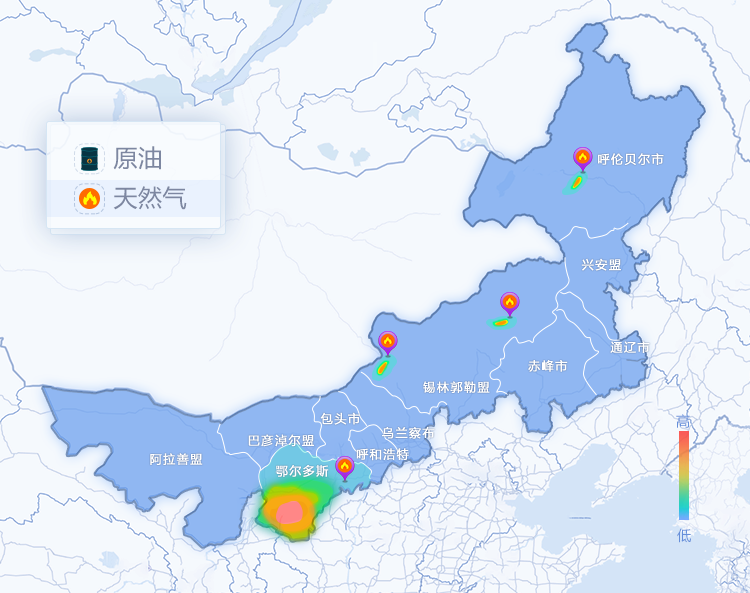
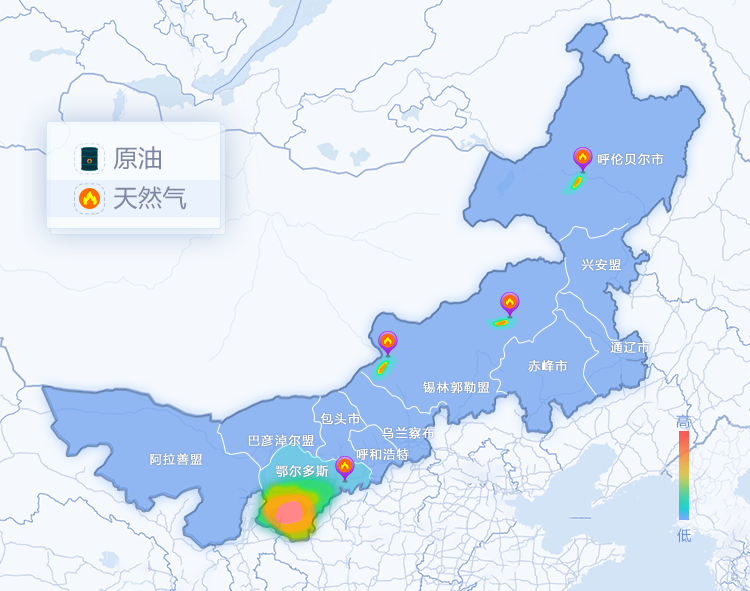
储情分析地图调整

diff --git a/src/oilgas/youqifenxi/chuqing.vue b/src/oilgas/youqifenxi/chuqing.vue
@@ -78,7 +78,7 @@
                 </div>
                 <!--天然气宏观显示-->
                 <div v-show="oilShow?false:true">
-                    <div class="lay-content" :style="{'left':be_click_left(0.158),'top':be_click_top(0.762)}">
+                    <div class="lay-content" :style="{'left':be_click_left(0.162),'top':be_click_top(0.722)}">
                         <div>苏里格气田区域</div>
                         <div>气田个数：5个</div>
                         <div>探明储量：11900万立方米</div>
@@ -88,33 +88,33 @@
                         <div>气田个数：1个</div>
                         <div>探明储量：560万立方米</div>
                     </div>
-                    <div class="lay-content" :style="{'left':be_click_left(0.608),'top':be_click_top(0.388)}">
+                    <div class="lay-content" :style="{'left':be_click_left(0.608),'top':be_click_top(0.428)}">
                         <div>二连气田区域</div>
                         <div>气田个数：2个</div>
                         <div>探明储量：700万立方米</div>
                     </div>
-                    <div class="lay-content" :style="{'left':be_click_left(0.668),'top':be_click_top(0.108)}">
+                    <div class="lay-content" :style="{'left':be_click_left(0.668),'top':be_click_top(0.128)}">
                         <div>海拉尔气田区域</div>
                         <div>油田个数：2个</div>
                         <div>探明储量：840万立方米</div>
                     </div>
-                    //天然气弹窗定位
+                    <!--//天然气弹窗定位-->
                     <div>
-                        <div class="clickbtn" :style="{'left':be_click_left(0.444),'top':be_click_top(0.848)}"
+                        <div class="clickbtn" :style="{'left':be_click_left(0.444),'top':be_click_top(0.768)}"
                              @click="tanchuangShow(listData6,tableTh2)"></div>
-                        <div class="clickbtn" :style="{'left':be_click_left(0.500),'top':be_click_top(0.632)}"
+                        <div class="clickbtn" :style="{'left':be_click_left(0.500),'top':be_click_top(0.552)}"
                              @click="tanchuangShow(listData7,tableTh2)"></div>
-                        <div class="clickbtn" :style="{'left':be_click_left(0.666),'top':be_click_top(0.565)}"
+                        <div class="clickbtn" :style="{'left':be_click_left(0.666),'top':be_click_top(0.485)}"
                              @click="tanchuangShow(listData8,tableTh2)"></div>
-                        <div class="clickbtn" :style="{'left':be_click_left(0.760),'top':be_click_top(0.325)}"
+                        <div class="clickbtn" :style="{'left':be_click_left(0.760),'top':be_click_top(0.245)}"
                              @click="tanchuangShow(listData9,tableTh2)"></div>
                     </div>
                 </div>
                 <div class="click-change"
-                     :style="oilShow?{'left':be_click_left(0.060),'top':be_click_top(0.230)}:{'left':be_click_left(0.060),'top':be_click_top(0.310)}"
+                     :style="oilShow?{'left':be_click_left(0.060),'top':be_click_top(0.230)}:{'left':be_click_left(0.060),'top':be_click_top(0.230)}"
                      @click="oilShow=true"></div>
                 <div class="click-change"
-                     :style="oilShow?{'left':be_click_left(0.060),'top':be_click_top(0.310)}:{'left':be_click_left(0.060),'top':be_click_top(0.390)}"
+                     :style="oilShow?{'left':be_click_left(0.060),'top':be_click_top(0.310)}:{'left':be_click_left(0.060),'top':be_click_top(0.310)}"
                      @click="oilShow=false"></div>
             </div>
 
